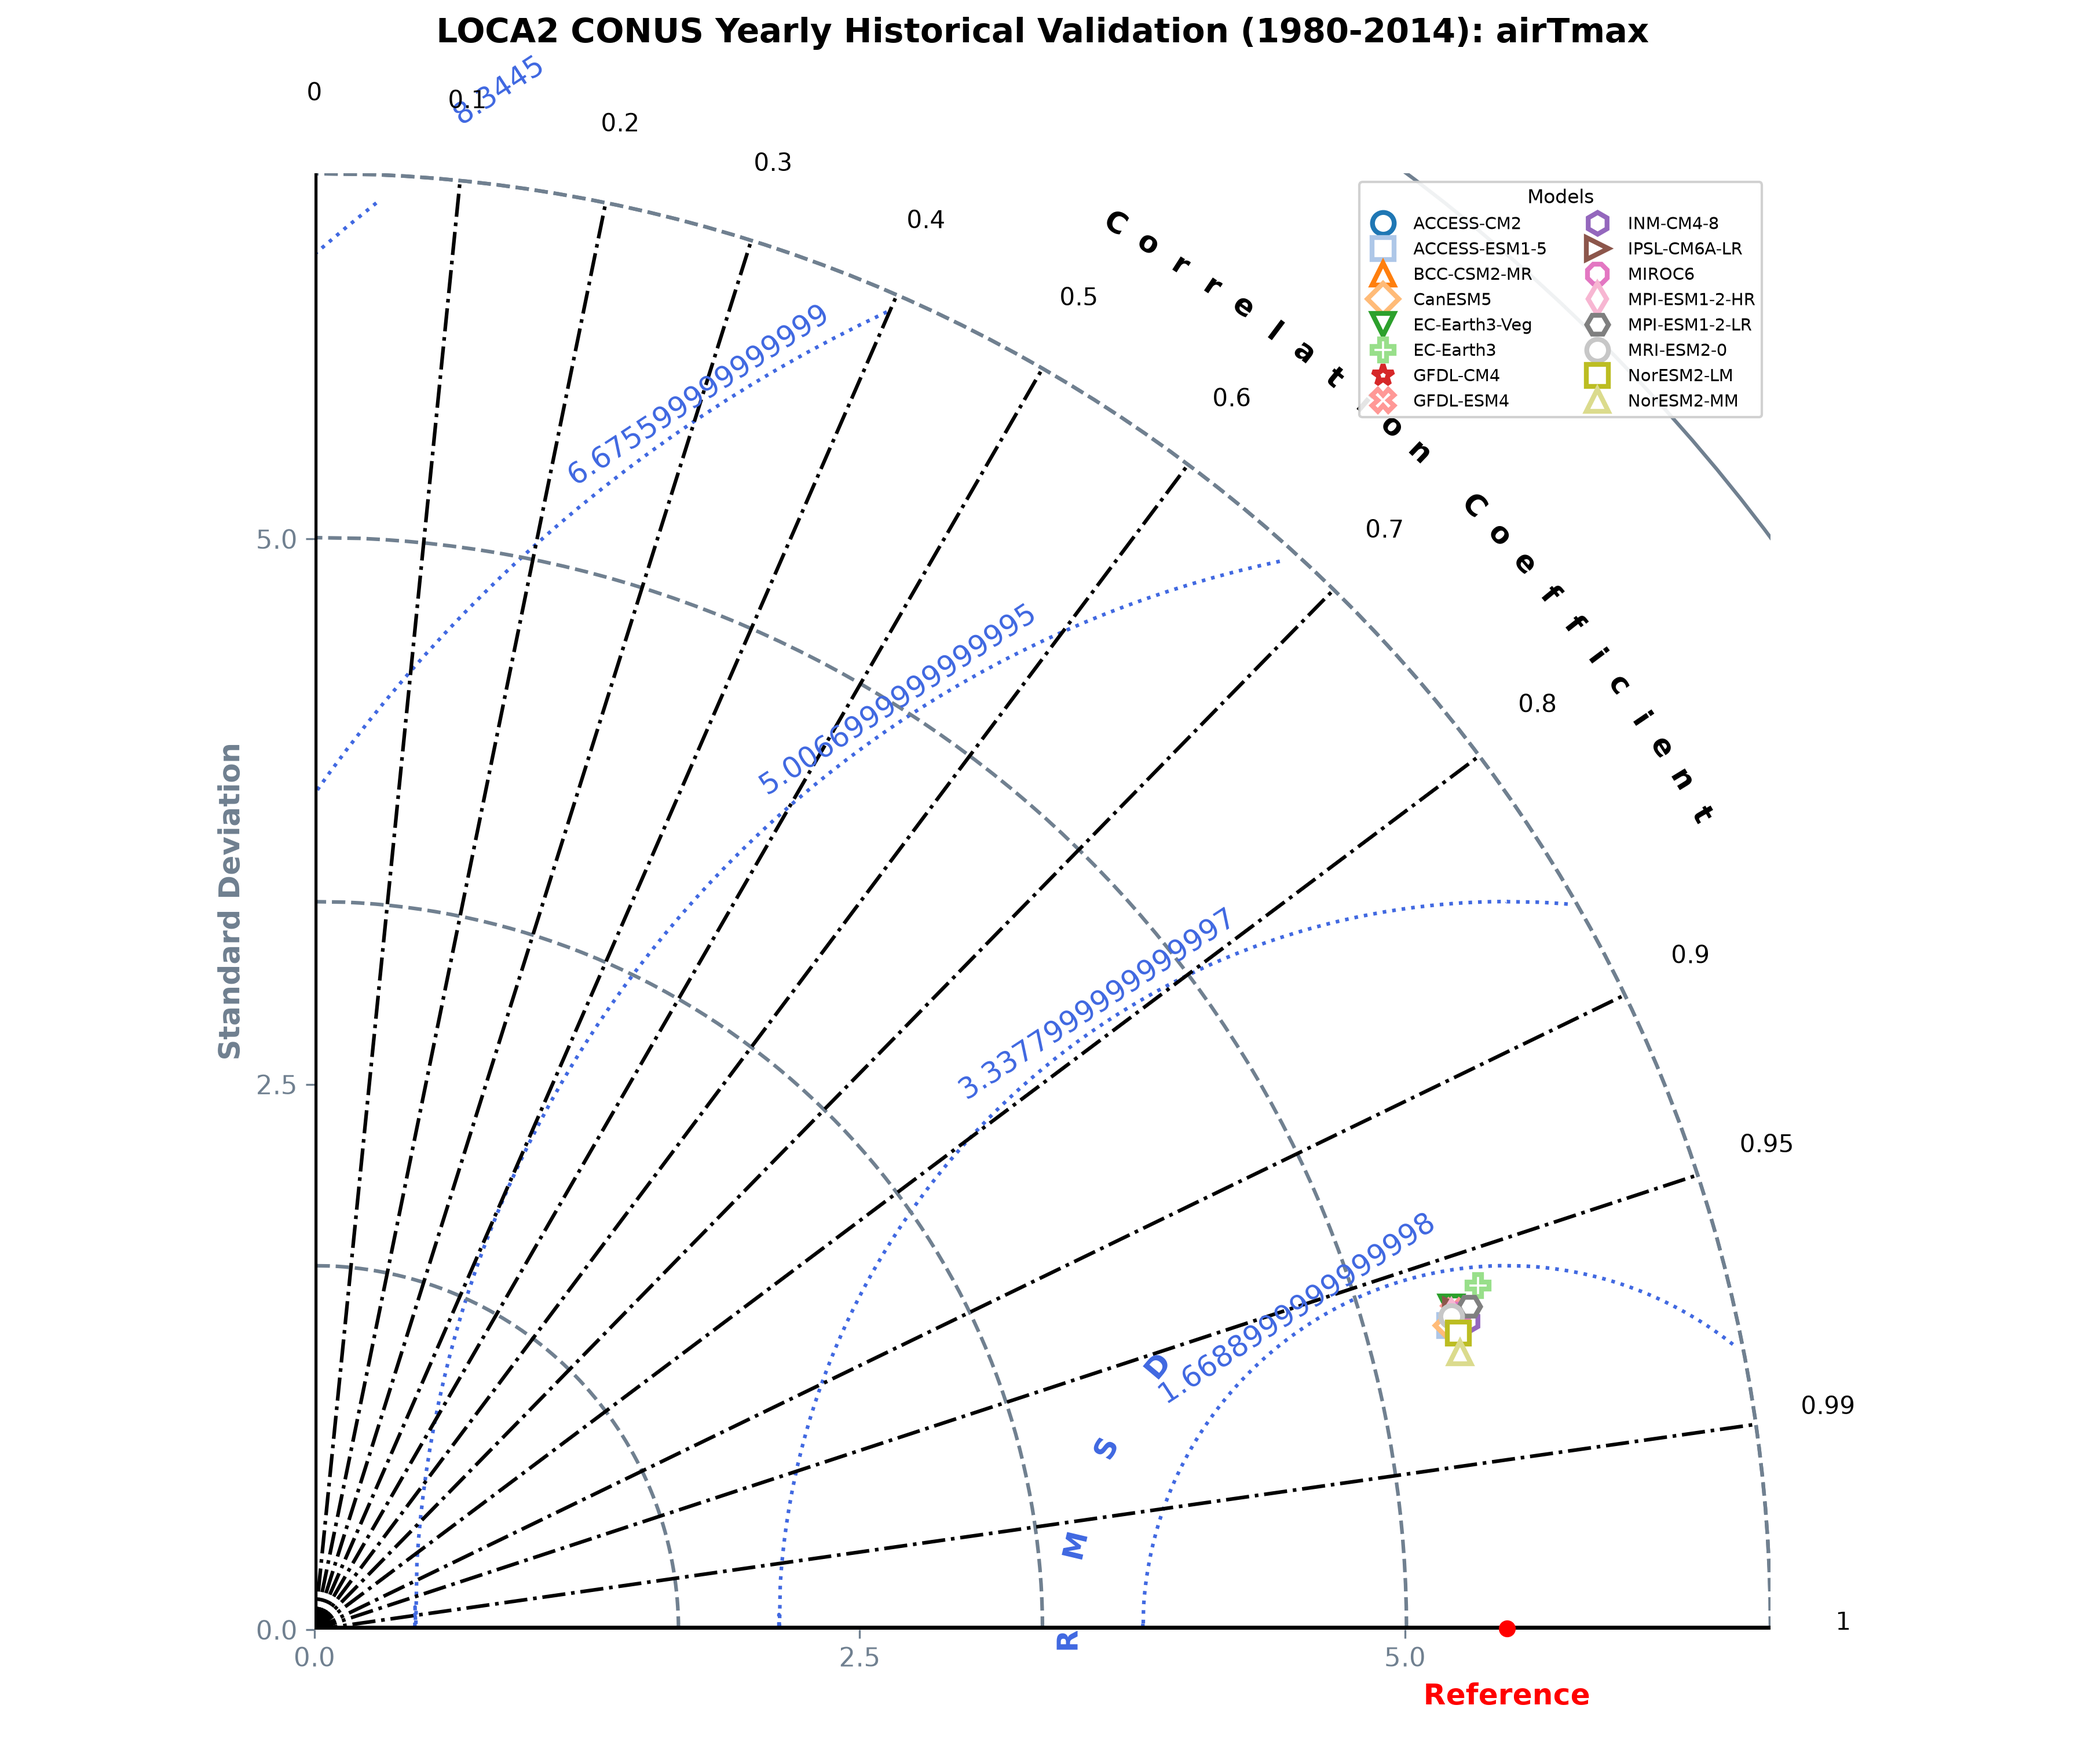
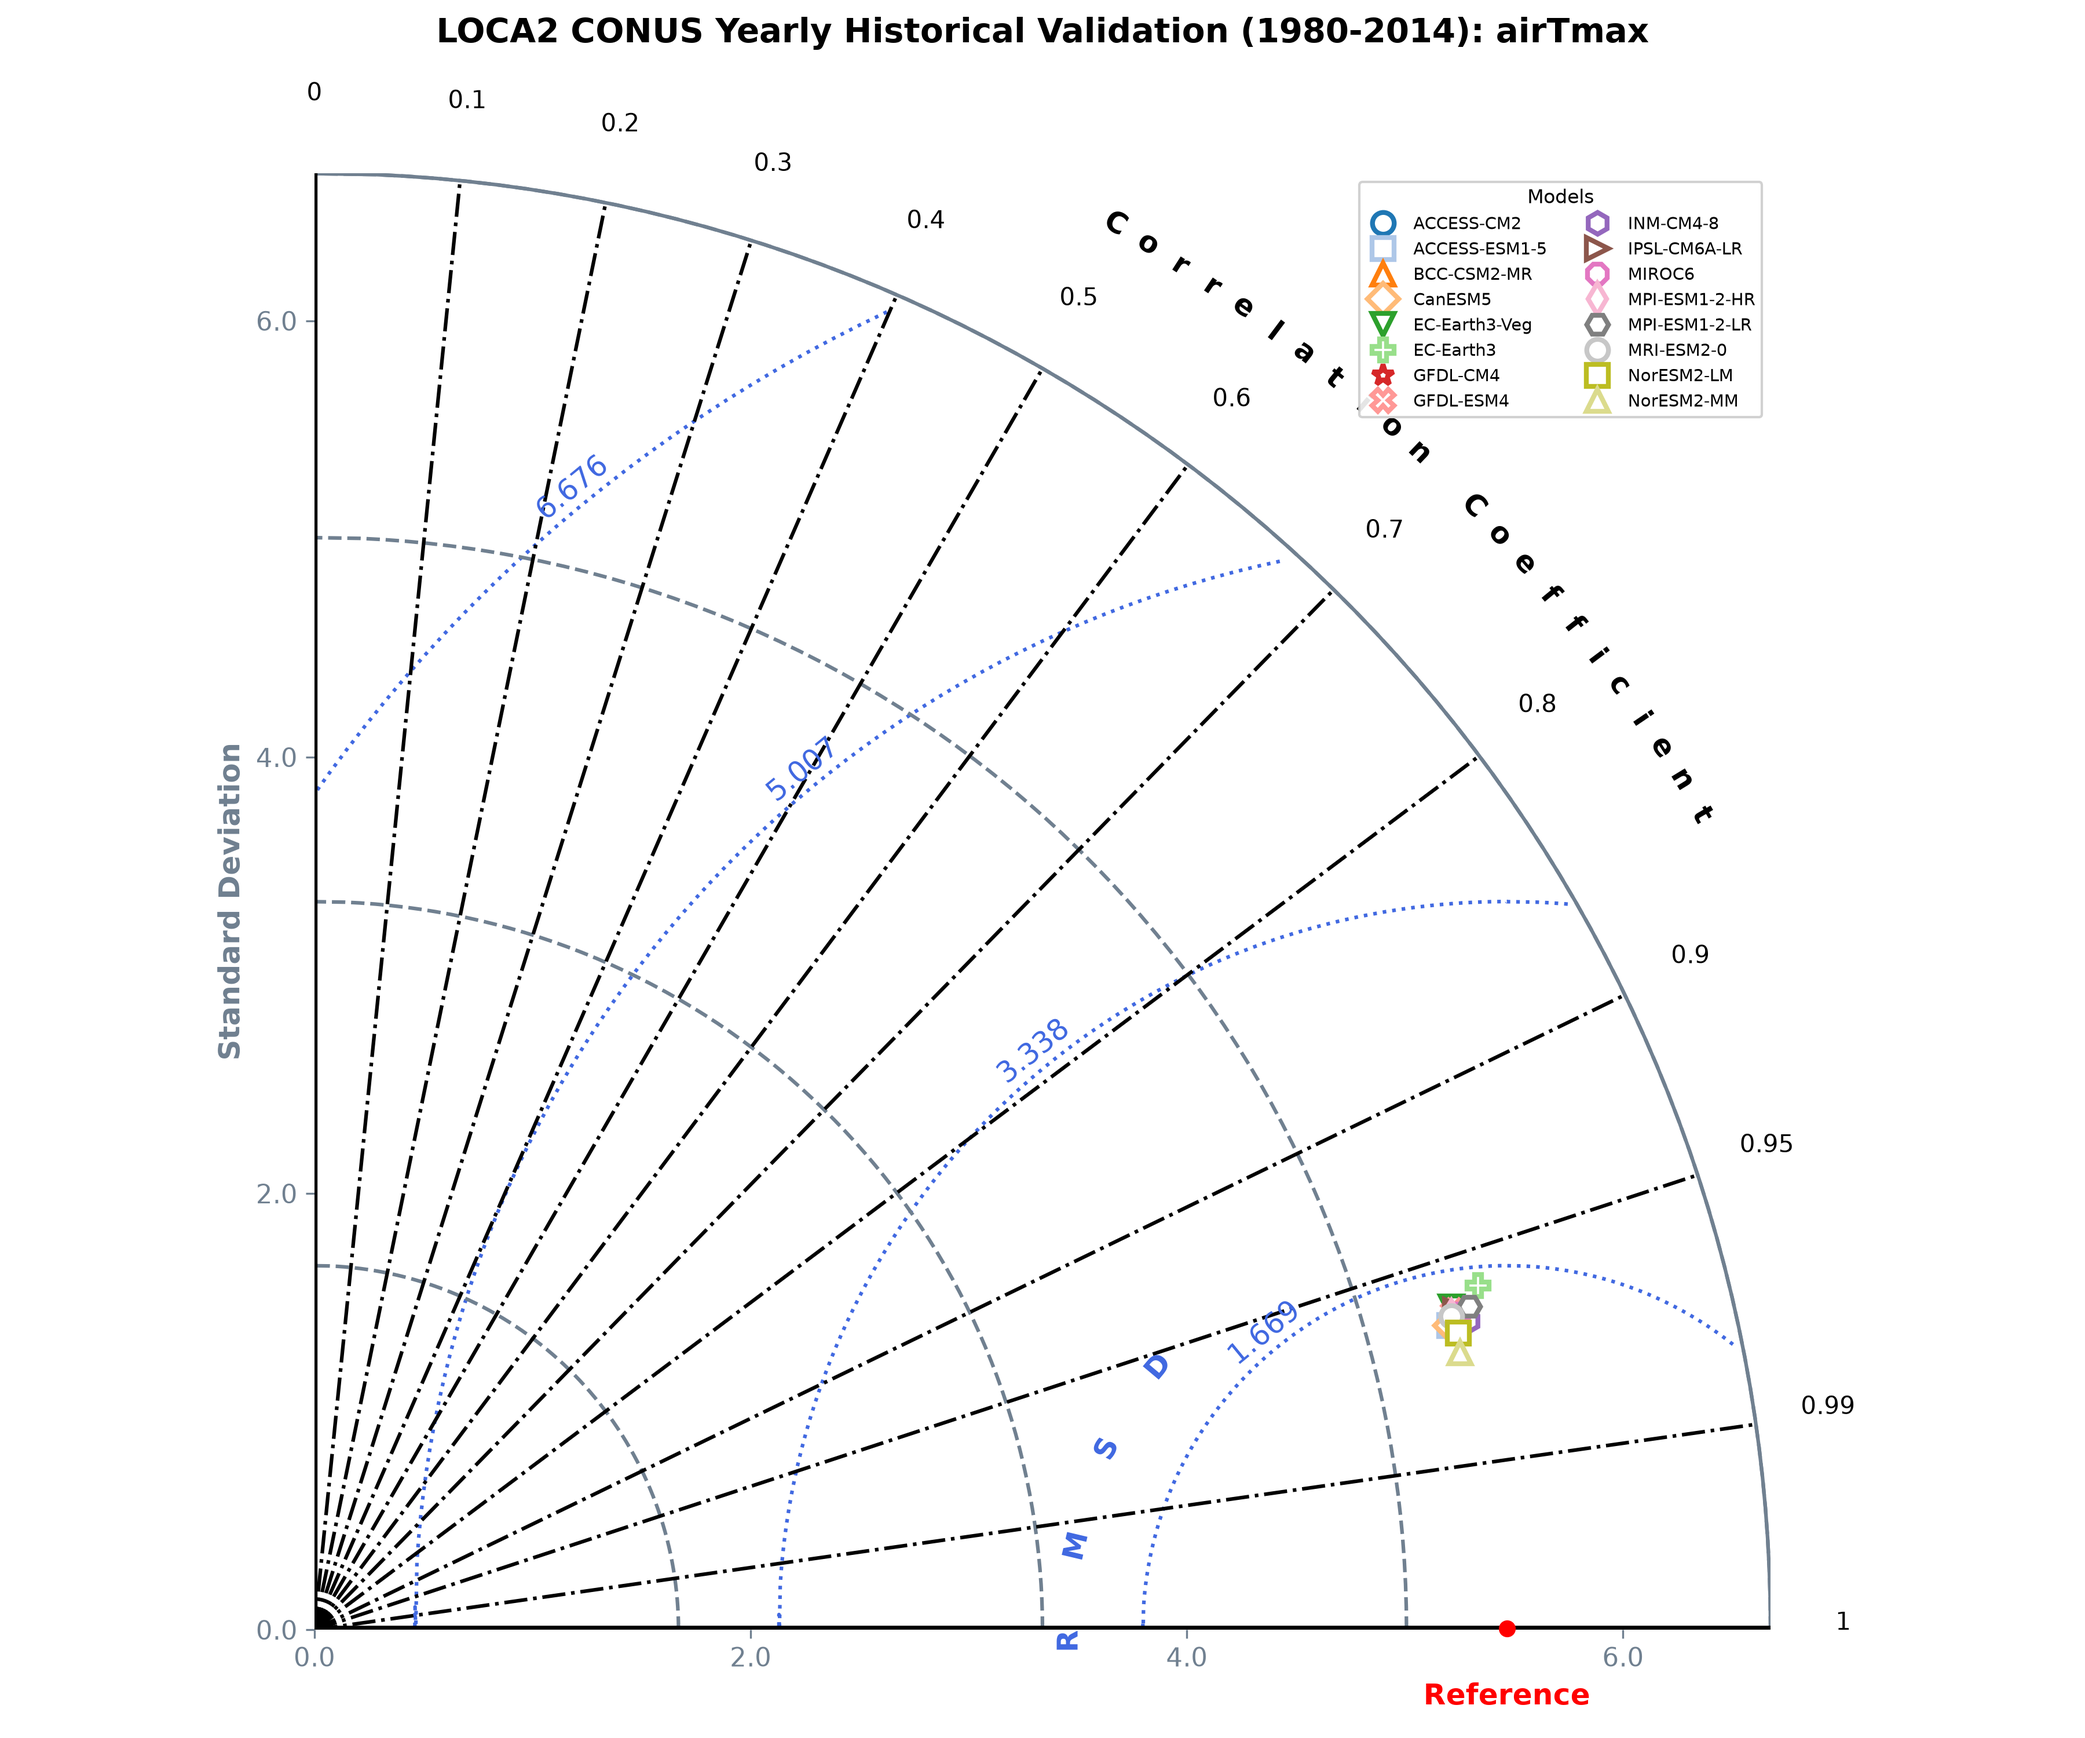
Fixed precip Taylor diagram

diff --git a/conus_yearly_taylor_diagrams.py b/conus_yearly_taylor_diagrams.py
@@ -45,6 +45,9 @@ variables_config = {
     "precip": "sum"
 }
 
+FILL_VALUE = -9999.0
+FILL_ABS_THRESHOLD = 1e10
+
 model_folders = sorted(glob.glob(os.path.join(MODEL_BASE_DIR, "*_newprcp")))
 model_names = [os.path.basename(f).split('_')[0] for f in model_folders]
 
@@ -74,6 +77,11 @@ def load_conus_boundary(shapefile_path=SHAPEFILE_PATH):
     return conus_states.dissolve().geometry
 
 
+def mask_fill_values(da):
+    """Replace known no-data sentinels with real NaN."""
+    return da.where((da != FILL_VALUE) & (np.abs(da) < FILL_ABS_THRESHOLD))
+
+
 def clip_to_conus(da_or_ds, conus_geom, lat_name=None, lon_name=None, all_touched=True):
     """Clip an xarray DataArray/Dataset to the CONUS boundary."""
     if lat_name is None:
@@ -92,13 +100,17 @@ def clip_to_conus(da_or_ds, conus_geom, lat_name=None, lon_name=None, all_touche
 
     obj = da_or_ds.rio.write_crs("EPSG:4326", inplace=False)
     obj = obj.rio.set_spatial_dims(x_dim=lon_name, y_dim=lat_name, inplace=False)
+
+    if isinstance(obj, xr.Dataset):
+        for v in obj.data_vars:
+            obj[v] = obj[v].rio.write_nodata(np.nan)
+    else:
+        obj = obj.rio.write_nodata(np.nan, inplace=False)
+
     return obj.rio.clip(conus_geom, crs="EPSG:4326", drop=True, all_touched=all_touched)
 
 
 def normalize_precip_units(da, label):
-    """Express precipitation as a monthly accumulation (mm/month), matching
-    the convention assumed by aggregate_yearly's annual sum.
-    """
     units = da.attrs.get('units')
     sample_mean = float(da.isel(time=slice(0, 1)).mean(skipna=True))
     print(f"    [units check] {label}: units='{units}', sample monthly mean={sample_mean:.4f}")
@@ -116,16 +128,12 @@ def normalize_precip_units(da, label):
 
 
 def aggregate_yearly(ds, operation):
-    """Slice to the 1980-2014 period and resample to annual resolution.
-    Precipitation is expected to already be a monthly accumulation
-    (mm/month) at this point (see normalize_precip_units), so a simple
-    annual sum is mathematically correct."""
     ds_sliced = ds.sel(time=slice('1980-01-01', '2014-12-31'))
 
     if operation == "mean":
-        return ds_sliced.resample(time='YS').mean(dim='time')
+        return ds_sliced.resample(time='YS').mean(dim='time', skipna=True)
     elif operation == "sum":
-        return ds_sliced.resample(time='YS').sum(dim='time')
+        return ds_sliced.resample(time='YS').sum(dim='time', skipna=True)
     else:
         raise ValueError(f"Unknown aggregation operation: {operation}")
 
@@ -146,8 +154,11 @@ for var, operation in variables_config.items():
 
     print(f"Loading Livneh monthly files for [{var}]...")
     with xr.open_mfdataset(livneh_pattern, combine='by_coords', data_vars='all') as livneh_ds:
+        livneh_ds = livneh_ds.copy()
+        # Scrub fill values BEFORE unit conversion / aggregation.
+        livneh_ds[var] = mask_fill_values(livneh_ds[var])
+
         if var == 'precip':
-            livneh_ds = livneh_ds.copy()
             livneh_ds[var] = normalize_precip_units(livneh_ds[var], "Livneh")
 
         livneh_yearly = aggregate_yearly(livneh_ds, operation)
@@ -160,7 +171,7 @@ for var, operation in variables_config.items():
     print(f"Yearly Livneh [{var}] dims: {dict(obs_da.sizes)}")
 
     raw_obs_data = obs_da.values.flatten()
-    obs_mask = ~np.isnan(raw_obs_data) & (raw_obs_data < 1e10) & (raw_obs_data != -9999.0)
+    obs_mask = ~np.isnan(raw_obs_data)
     obs_clean = raw_obs_data[obs_mask]
 
     if obs_clean.size == 0:
@@ -168,7 +179,7 @@ for var, operation in variables_config.items():
         continue
 
     # initialize SkillMetrics tracking lists w/ baseline's perfect score
-    sdev_list = [np.std(obs_clean)]
+    sdev_list = [round(float(np.std(obs_clean)), 3)]
     crmsd_list = [0.0]
     cc_list = [1.0]
 
@@ -184,8 +195,11 @@ for var, operation in variables_config.items():
 
         try:
             with xr.open_mfdataset(model_pattern, combine='by_coords', data_vars='all') as model_ds:
+                model_ds = model_ds.copy()
+                # Scrub fill values BEFORE unit conversion / aggregation.
+                model_ds[var] = mask_fill_values(model_ds[var])
+
                 if var == 'precip':
-                    model_ds = model_ds.copy()
                     model_ds[var] = normalize_precip_units(model_ds[var], name)
 
                 model_yearly = aggregate_yearly(model_ds, operation)
@@ -198,8 +212,7 @@ for var, operation in variables_config.items():
             model_data = model_da.values.flatten()
             obs_regrid_data = obs_regrid.values.flatten()
 
-            valid_mask = (~np.isnan(model_data) & (model_data != -9999.0) &
-                          ~np.isnan(obs_regrid_data) & (obs_regrid_data < 1e10))
+            valid_mask = ~np.isnan(model_data) & ~np.isnan(obs_regrid_data)
 
             m_clean = model_data[valid_mask]
             o_clean = obs_regrid_data[valid_mask]
@@ -241,9 +254,9 @@ for var, operation in variables_config.items():
 
     # generating taylor diagrams
     if active_models:
-        sdevs = np.array(sdev_list)
-        crmsds = np.array(crmsd_list)
-        ccs = np.array(cc_list)
+        sdevs = np.round(np.array(sdev_list), 3)
+        crmsds = np.round(np.array(crmsd_list), 3)
+        ccs = np.round(np.array(cc_list), 3)
 
         fig = plt.figure(figsize=(12, 10))
 
@@ -255,7 +268,7 @@ for var, operation in variables_config.items():
             markerObs='o',
             colObs='red',
             titleOBS='Reference',
-            axisMax=float(np.max(sdevs) * 1.2),
+            axisMax=round(float(np.max(sdevs) * 1.2), 3),
             colCOR='black',
             colRMS='RoyalBlue',
             colSTD='SlateGray',
